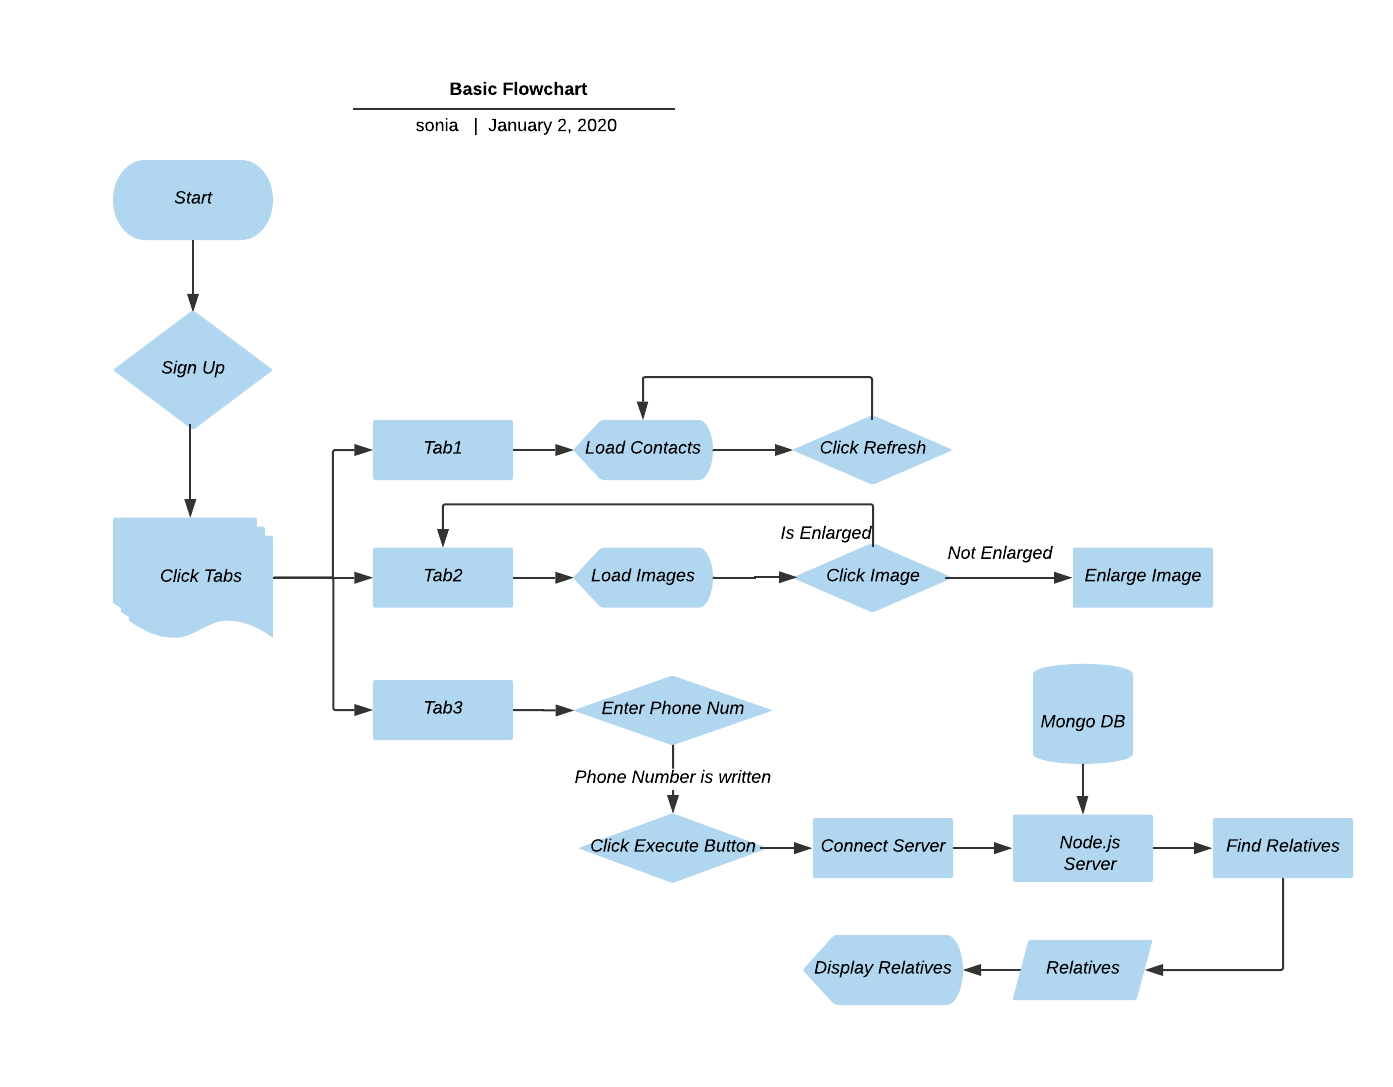
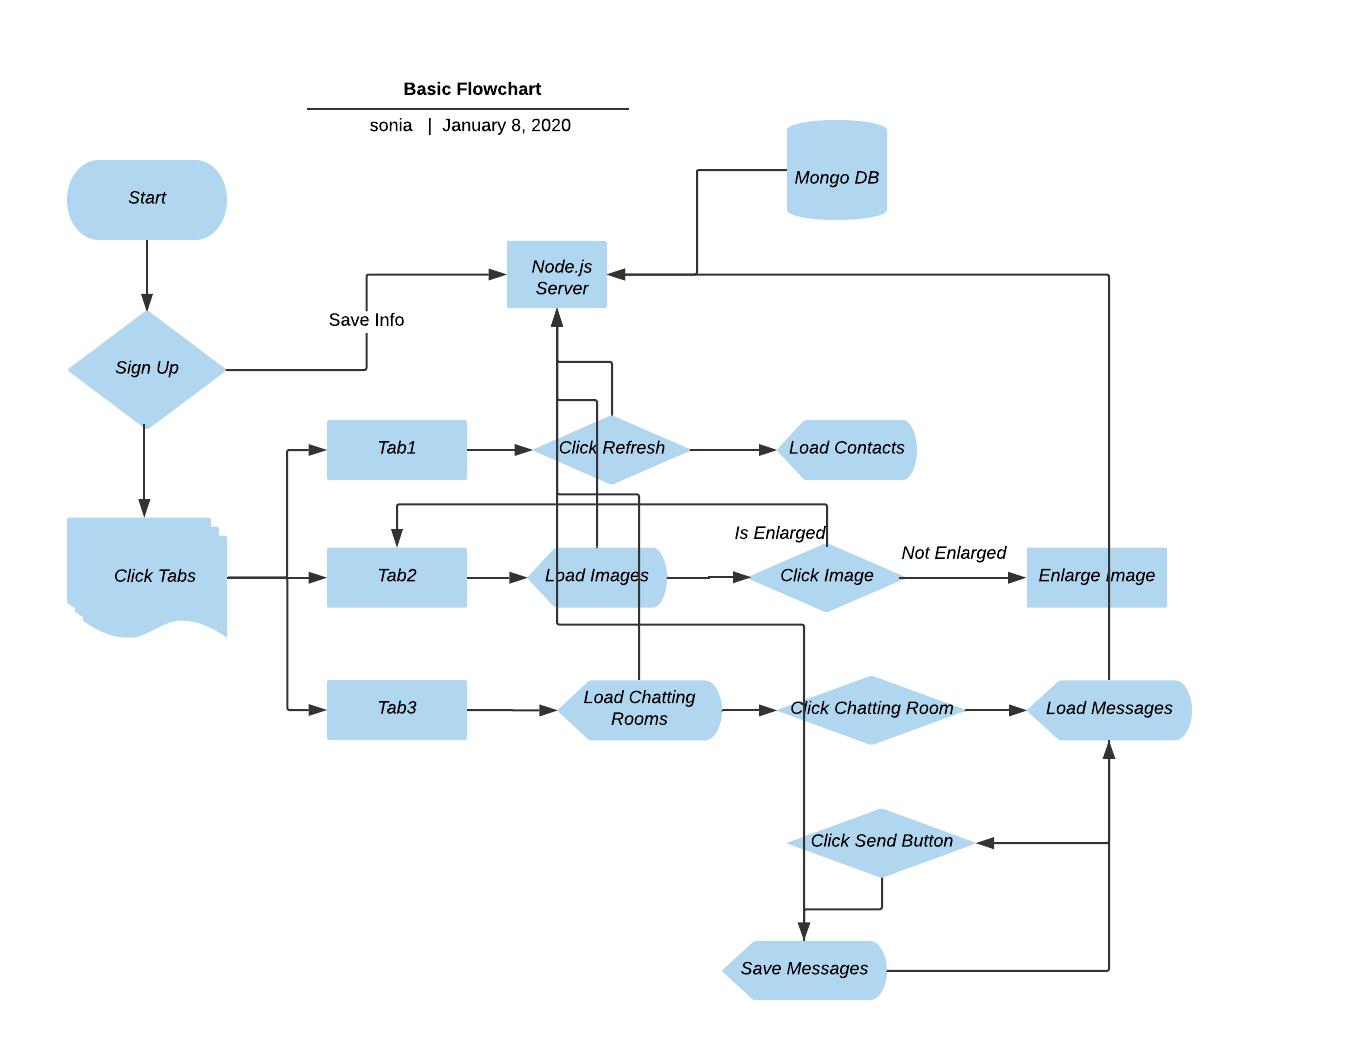
[modify] modify readme.md

diff --git a/README.md b/README.md
@@ -8,8 +8,8 @@ Last Edited: Jan 02, 2020 3:02 PM
 - Node.js
 - Android Studio
 - Mongo db
-- 개발 기간 : 1주일
-- 개발 인원 : 2명 (@forbid403, @ahn9807)
+- 개발 기간 : 5일
+- 개발 인원 : 2명 (@forbid403, @KangHyunSub)
 
 # 전체 앱 구성
 
@@ -27,65 +27,54 @@ Last Edited: Jan 02, 2020 3:02 PM
 - 회원 가입 후에만 어플리케이션 접근
 - 필수 정보 입력 시에만 회원 가입 가능
 - SharedPreference로 세션 유지
-- 회원가입 시 DB 전송
+- 회원가입 시 회원 정보, 로컬에 있는 갤러리와 연락처를 DB 전송
 
 ### TAB1
 
 - 연락처 리스트
 
-    ![](gitImage/2.png)
+    ![](gitImage/address.jpg)
 
-- 로컬에 있는 연락처 목록을 불러온다.
+- DB에 있는 연락처 목록을 불러온다.
 - 아래 버튼 클릭 시 update
 
 ### TAB2
 
 - 갤러리
 
-    ![](gitImage/3.png)
+    ![](gitImage/gallery.jpg)
 
-    - 프로젝트 내부의 사진들 불러오기
-
-    ![](gitImage/4.png)
-
+- DB의 사진들 불러오기
 - 사진 클릭 시 확대
 - 클릭 한 사진은 opacity 조절로 체크
 
 ### TAB3
 
-- 촌수 계산
-
-    ![](gitImage/5.png)
-
-- 핸드폰 번호를 입력 하면, 그 사람이랑 내가 몇 다리 건너야 친구인지 알려주는 기능
-- 자료구조 : queue, set
-- 알고리즘 : Disjoint-set, BFS
-- 친구를 찾으면 경로를 출력, 아니라면 Not found 출력
-- 자세한 알고리즘은 [여기](https://www.notion.so/02ab7da983df41e492146bb977967fab)
+- 채팅기능
+    - 소켓통신을 이용한 채팅 기능
+    ![](gitImage/chatting.jpg)
+    ![](gitImage/chatting2.jpg)
+    - 채팅 방은 DB에 저장된 ID로 구별
+    - 채팅 방 입장 시 DB에서 지금까지 대화한 기록들 불러오기
+    - socket.join을 사용해 emit시 구별해서 전송
 
 # 트러블슈팅
 
-- JS는 싱글 스레드 언어여서 서버단에서 데이터를 주고 받을 때 동기화가 필요했다. 데이터를 이미 받았는데도 불구하고 빈 Array를 반환하고는 했다.
-
-    → Async / Await, Promise 등 JS 동기화 문법에 대해서 공부하여 적용하였다. 서버 단에서 데이터를 받아온 이후에 그 데이터 관련 작업을 시행하였다.
-
-- 촌 수 계산 프로그램을 구현 할 때 데이터들의 자료구조, 필요한 알고리즘을 설정하는 데에 어려움을 겪었다.
-
-    → 알고리즘을 설계 할 때 될 것 같은데? 가 아니라, 된다. 의 수준의 확신이 들었을 때에 코드를 짜야 겠다. 이론적으로만 (a.k.a 뇌피셜) 진행하게 되니 구멍이 많아 개발 도중에 멈춰 다시 브레인스토밍을 해야 했다.
+- emit 시 모든 소켓에게 데이터를 전송하게 되어 다른 채팅방에 있어도 채팅이 업데이트 되는 문제가 생겼다.
+    - io.emit이라는 메소드가 현재 소켓 풀에 있는 모든 소켓에게 메세지를 보내기 때문에 발생했다. 검색을 해 보니 join이라는 메서드가 있었다. 소켓을 채팅방 처럼 join으로 방을 만들어, 그 방에 있는 소켓들에게만 메세지를 보낼 수 있었다.
+    - 채팅 방을 입장할 시에, 소켓을 연결한다. 서버에 채팅방의 ID를 소켓에 토큰으로 보낸다. 서버에서 io.on으로 connection을 감지 할 때에 소켓에서 보낸 토큰(roomID)로 join을 시킨다.
+    - 클라이언트가 채팅 메세지를 보내면 io.to(roomId).emit으로 특정 room 안에만 있는 소켓에게만 메세지를 보낸다!
+- AsyncTask의 request가 너무 많아 서버에 부하가 걸려 서버가 다운이 되었다.
+    - 
 
 # 배운점/느낀점
 
-- 이론으로만 배웠던 알고리즘을 실제로 기능을 구현할 수 있어서 좋았다. 기존 알고리즘을 그대로 가져다 쓰는 게 아니라, 프로젝트에 맞춰 알고리즘을 수정하여 적용할 수 있어서 배울 점이 많았다.
-- 디자인 패턴을 적용하려고 했지만 이해도가 낮은 상태에서 프로젝트에 적용하기엔 어려웠다. toy project에서부터 패턴을 적용해보는 공부가 필요한 것 같다.
+- 
 
 # 공부한 내용
 
-[https://forbid403.github.io/til/1227-TIL/](https://forbid403.github.io/til/1227-TIL/)
+[https://forbid403.github.io/til/0102-TIL/](https://forbid403.github.io/til/0102-TIL/)
 
-[https://forbid403.github.io/til/1228-TIL/](https://forbid403.github.io/til/1228-TIL/)
+[https://forbid403.github.io/til/0103-TIL/](https://forbid403.github.io/til/0103-TIL/)
 
-[https://forbid403.github.io/til/1229-TIL/](https://forbid403.github.io/til/1229-TIL/)
-
-[https://forbid403.github.io/til/1230-TIL/](https://forbid403.github.io/til/1230-TIL/)
-
-[https://forbid403.github.io/til/1231-TIL/](https://forbid403.github.io/til/1231-TIL/)
+[https://forbid403.github.io/til/0104-TIL/](https://forbid403.github.io/til/0104-TIL/)
